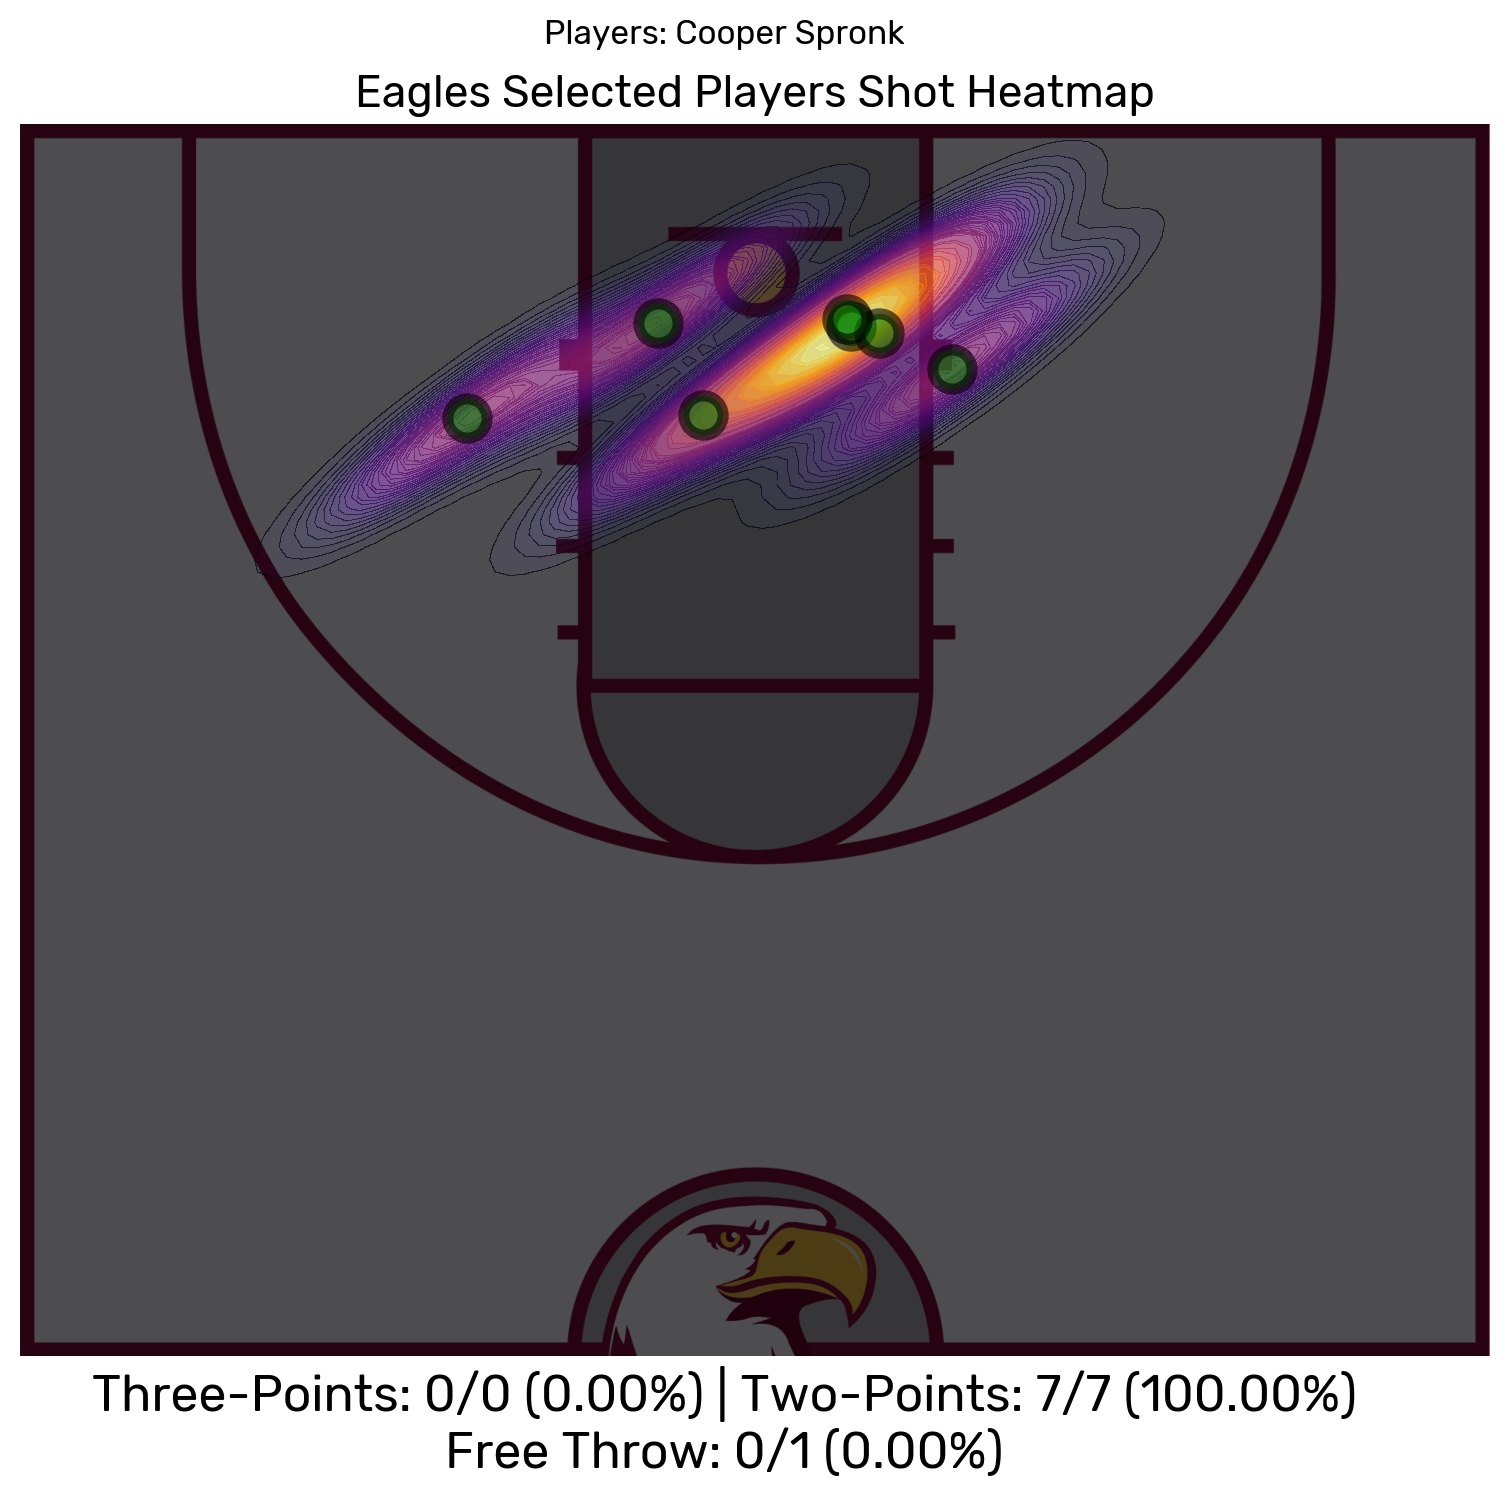
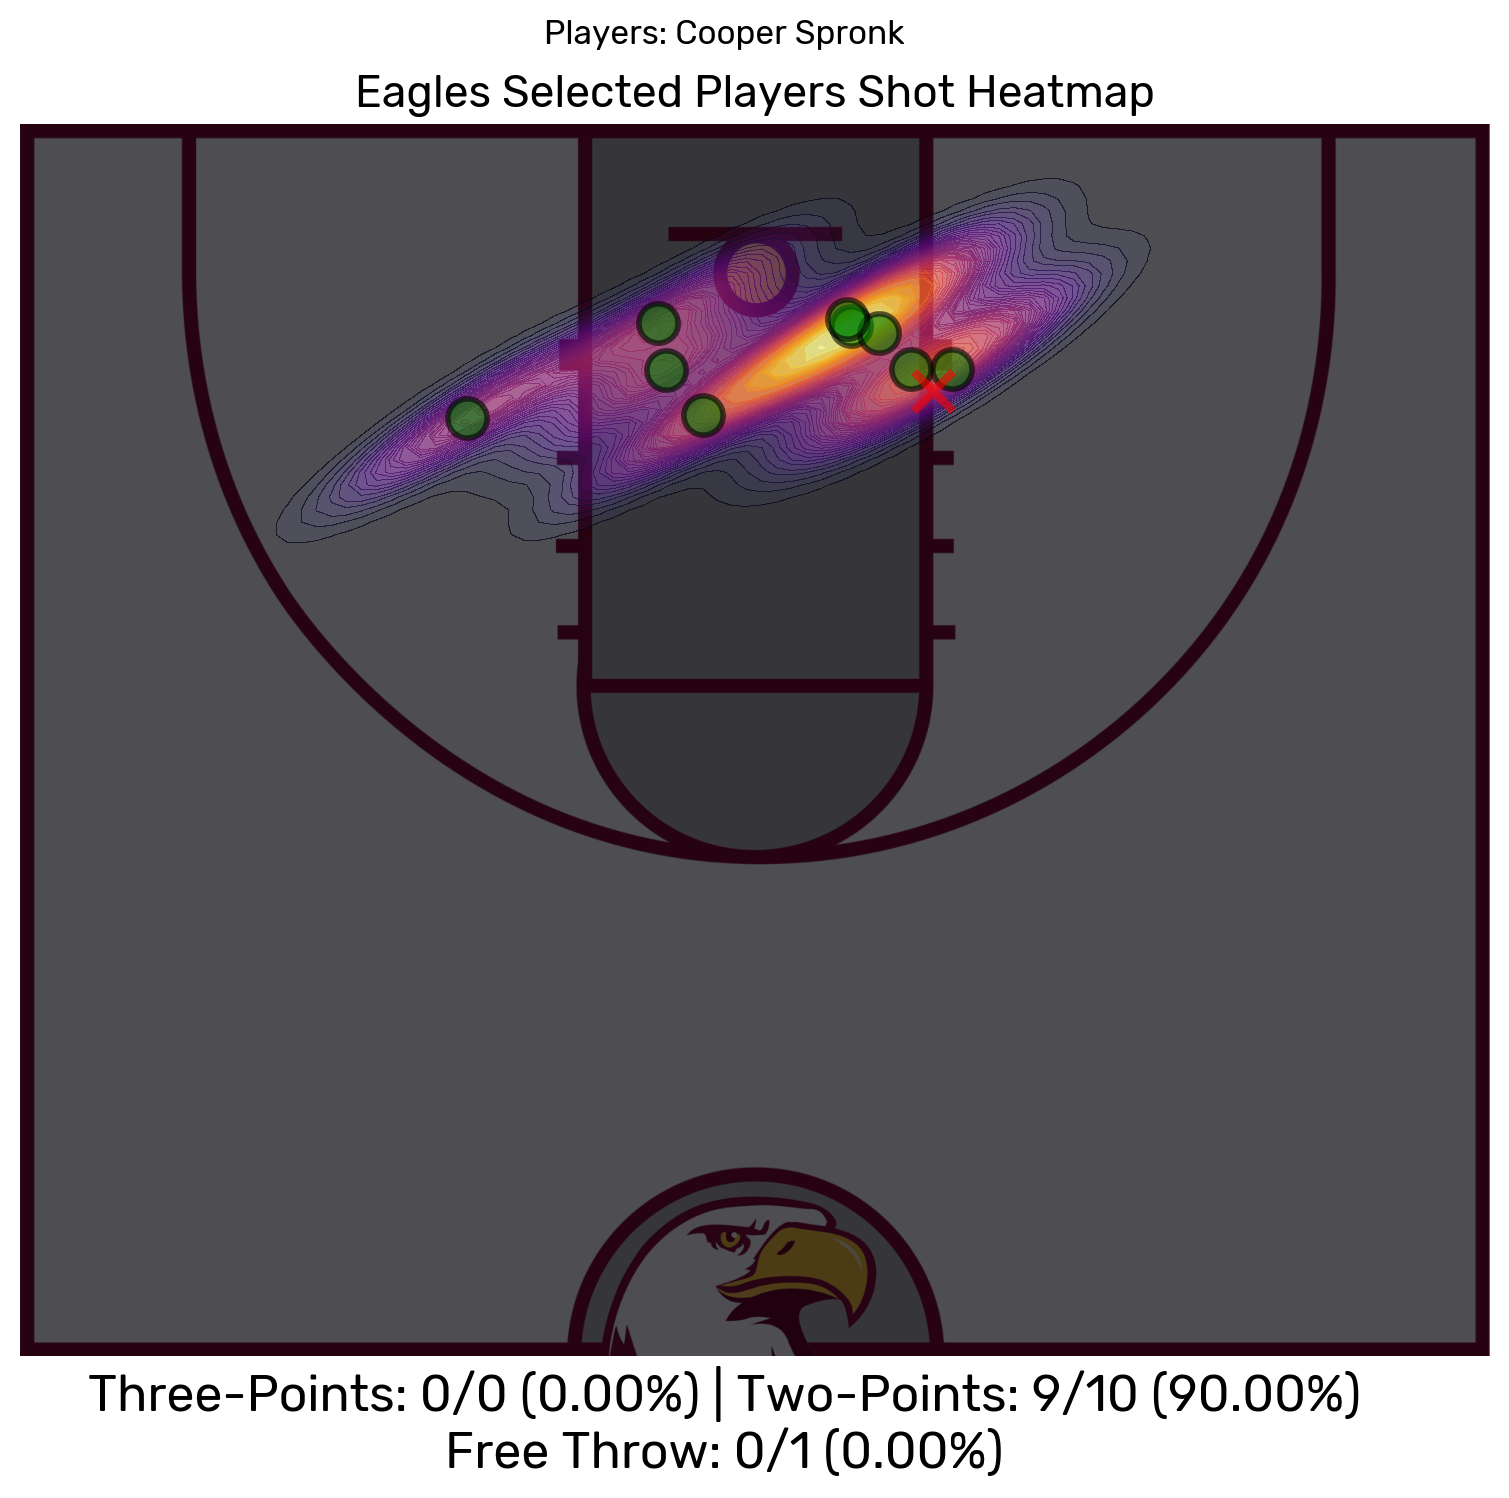
update heatmap info

Changed region(s): [[0.1869, 0.0921, 0.7475, 0.3685], [0.0623, 0.9212, 0.9032, 0.9519]]

diff --git a/heatmap.py b/heatmap.py
@@ -138,9 +138,9 @@ def create_heatmap(shot_positions, shot_made, team_name, team_num, percentages, 
     # Add small dots for shot locations, green if made, red if missed
     for (x, y), made in zip(scaled_shot_positions, shot_made):
         if made:
-            ax.scatter(x, y, c='green', marker='o', s=200, edgecolors='black', linewidths=4, alpha=0.6)
+            ax.scatter(x, y, c='green', marker='o', s=200, edgecolors='black', linewidths=2, alpha=0.6)
         else:
-            ax.scatter(x, y, c='red', marker='x', s=200, linewidths=4, alpha=0.6)
+            ax.scatter(x, y, c='red', marker='x', s=200, linewidths=3, alpha=0.6)
 
     # Set plot limits to match the court image
     ax.set_xlim(0, court_width_x)
@@ -197,4 +197,4 @@ create_heatmap(combined_shot_positions, combined_shot_made, f'{team1_name} and {
 
 # Example usage for individual players
 create_individual_heatmap(1, ["35"]) # Team 1 (Eagles), players 2 and 4
-#create_individual_heatmap(2, ["23"]) # Team 2, players 1 and 3
+#create_individual_heatmap(2, ["21"]) # Team 2, players 1 and 3
